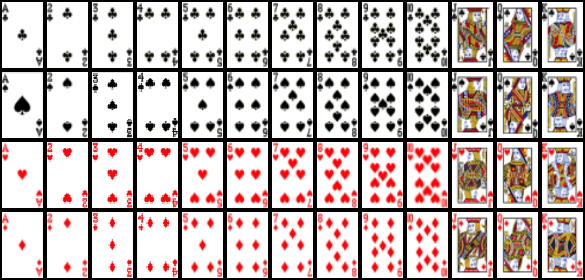
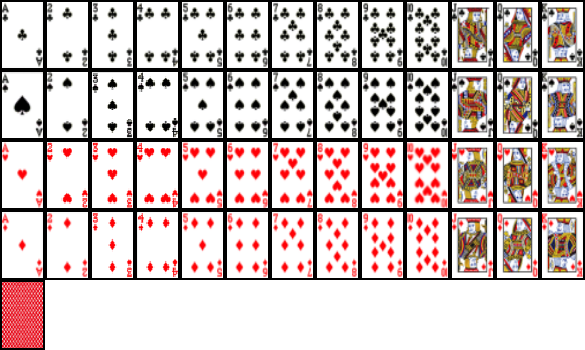
add support to render the background of cards

diff --git a/src/engine/window/window.c b/src/engine/window/window.c
@@ -30,6 +30,12 @@ static void mouse_clicked_callback(GLFWwindow* win, int button, int action, int 
         input->mouse_down = true;
     if (button == GLFW_MOUSE_BUTTON_LEFT && action == GLFW_RELEASE)
         input->mouse_down = false;
+
+
+    if (button == GLFW_MOUSE_BUTTON_RIGHT && action == GLFW_PRESS)
+        input->right_mouse_down = true;
+    if (button == GLFW_MOUSE_BUTTON_RIGHT && action == GLFW_RELEASE)
+        input->right_mouse_down = false;
 }
 
 

diff --git a/src/game/card/renderer/card_renderer.c b/src/game/card/renderer/card_renderer.c
@@ -123,6 +123,8 @@ void draw_card(card_renderer* renderer, card* value) {
     set_shader_uniform(&renderer->card_shader, &card_transform_uniform);
     
     int card_index_value = card_data_to_number(value->data);
+    if (value->flipped)
+        card_index_value = 52;
     shader_uniform card_type_uniform = { &card_index_value, int1, "u_card_index" };
     set_shader_uniform(&renderer->card_shader, &card_type_uniform);
 

diff --git a/src/game/card/manager/card_manager.c b/src/game/card/manager/card_manager.c
@@ -18,7 +18,8 @@ void create_cards(card_manager* manager) {
             new_card->scale = 40.0f;
             new_card->mouse_over = 0;
             new_card->held = 0;
-            
+            new_card->flipped = false;
+
             manager->cards[index] = new_card;
             index++;
         }

diff --git a/src/engine/input_manager/input_manager.h b/src/engine/input_manager/input_manager.h
@@ -5,6 +5,7 @@
 typedef struct input_manager {
     vector2 mouse_position;
     bool mouse_down;
+    bool right_mouse_down;
 } input_manager;
 
 void set_mouse_pos(input_manager* input, vector2 pos);

diff --git a/src/game/card/card.h b/src/game/card/card.h
@@ -21,6 +21,8 @@ typedef struct card {
     vector2 position;
     int scale;
 
+    bool flipped;
+
     bool held;
     bool mouse_over;
 } card;
